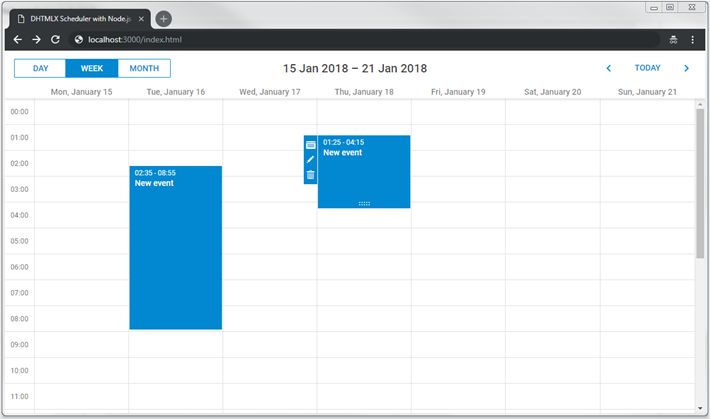
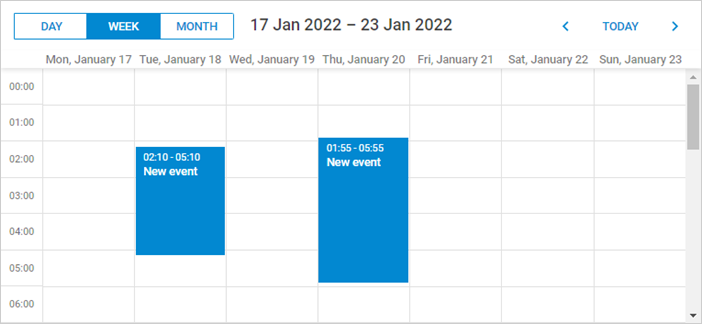
[update] Scheduler with nodejs guide

Changed region(s): [[0.0, 0.0, 1.0, 1.0], [0.4188, 0.3086, 0.5983, 0.8951], [0.1795, 0.3704, 0.3291, 0.8025]]

diff --git a/data/howtostart_nodejs.md b/data/howtostart_nodejs.md
@@ -104,19 +104,18 @@ After that **package.json** looks like this:
 
 ~~~
 {
-    "name": "scheduler-backend",
+    "name": "scheduler-howto-node",
     "version": "1.0.0",
     "main": "server.js",
-    "author": "Me",
     "license": "MIT",
     "scripts": {
         "start": "node server.js"
     },
     "dependencies": {
-        "body-parser": "^1.18.3",
+        "body-parser": "^1.20.0",
         "date-format-lite": "^17.7.0",
-        "express": "^4.16.4",
-        "mysql": "^2.16.0"
+        "express": "^4.18.1",
+        "mysql": "^2.18.1",
     }
 }
 ~~~
@@ -182,16 +181,18 @@ Then create an *index.html* file in the **public** directory:
             <div class="dhx_cal_data"></div>
         </div>
         <script>
-            // set format of dates in the data source
-            scheduler.config.xml_date="%Y-%m-%d %H:%i";
-            scheduler.init('scheduler_here', new Date(2018,0,20), "month");
-
-            scheduler.load("http://localhost:3000/data", "json");
-
-            var dp = scheduler.createDataProcessor("http://localhost:3000/data");
-            dp.init(scheduler);
-            // use RESTful API on the backend
-            dp.setTransactionMode("REST");
+            scheduler.config.load_date="%Y-%m-%d %H:%i";
+            scheduler.init("scheduler_here", new Date(2022, 0, 20), "week");
+            scheduler.setLoadMode("day");
+ 
+            // load data from backend
+            scheduler.load("/events", "json");
+ 
+            // connect backend to scheduler
+            const dp = scheduler.createDataProcessor({
+                url: "/events",
+                mode: "REST"
+            });
         </script>
     </body>
 </html>
@@ -216,8 +217,7 @@ Run the app again to make sure it did the trick.
 
 Now when you open the URL *http://localhost:3000/* in a browser, you should see the *index.html* page.
 
-![Scheduler initialization](howtostart_nodejs_init.png)
-
+<img style='width:702px' src='howtostart_nodejs_init.png'/>
 
 Step 3. Preparing a database
 -------------------------
@@ -265,7 +265,7 @@ const mysqlConfig = {
     "host": "localhost",
     "user": "root",
     "password": "",
-    "database": "scheduler_howto_node"
+    "database": "scheduler"
 };
 ~~~
 
@@ -434,7 +434,7 @@ router.setRoutes(app, "/events", storage);
 
 If you restart the application now, you should be able to create delete and modify events in scheduler, all changes will be there after you reload the page.
 
-![Scheduler CRUD](howtostart_nodejs_crud.png)
+<img style='width:702px' src='howtostart_nodejs_crud.png'/>
 
 Dynamic loading
 ---------------
@@ -452,11 +452,11 @@ Firstly, enable dynamic loading on the client using the api/scheduler_setloadmod
 
 {{snippet public/index.html}}
 ~~~
-scheduler.config.xml_date="%Y-%m-%d %H:%i";
-scheduler.init("scheduler_here", new Date(2018, 0, 20), "week");
+scheduler.config.load_date="%Y-%m-%d %H:%i";
+scheduler.init("scheduler_here", new Date(2022, 0, 20), "week");
 scheduler.setLoadMode("day"); /*!*/
-
-// load data from the backend
+ 
+// load data from backend
 scheduler.load("/events", "json");
 ~~~
 
